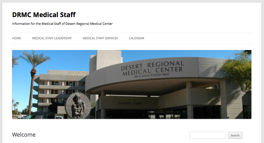
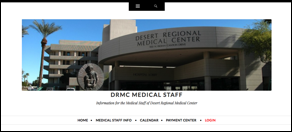
revisions for transition to Ryu theme base

diff --git a/style.css b/style.css
@@ -1,36 +1,46 @@
 /*
 Theme Name:       DRMCMedStaff
 Theme URI:        http://drmcmedstaff.org
-Description:      Child Theme for twentytwelve. 
+Description:      Child Theme for Ryu. 
 Author:           afragen
 Author URI:       http://drmcmedstaff.org
-Template:         twentytwelve
-Version:          1.3.22
+Template:         ryu
+Version:          1.4.0
 Github Theme URI: https://github.com/afragen/drmcmedstaff
 GitHub Branch:    develop
 */
  
-@import url("../twentytwelve/style.css");
+@import url("../ryu/style.css");
+
+.des-insert { color: #0000ff; text-decoration: underline; }
+.des-delete { color: #d80000; text-decoration: line-through; }
 
 /* MEC images, cropped then scaled to 2x3 inches */
-#content td>img { max-width: 100px; float: right; }
+#content td>img { max-width: 100px; }
 #content table, #content td { border: none; }
 #content th { font-size: 1em; }
 
-/* Spacing in Med Staff Leadership table */
-#content table>tbody>tr>td, #content table>tbody>tr>td>img {
+/* Spacing for names in Med Staff Leadership table */
+tbody tr>td, tbody tr>td>img {
 	vertical-align: middle;
-	font-size: 0.8em;
+	font-size: 0.6em;
 }
 
 /* Spacing for Document listing */
 #content li { padding: 0.4em; }
-#content ul { width:400px; margin-right:auto; margin-left:auto; }
+#content ul { width: 600px; margin-right:  auto; margin-left:auto; list-style: none; }
 
 .bns-login { padding-bottom: 1em; }
 
-/* Comment Styling */
+/* Changes for Ryu theme */
+h1.entry-title { font-size: 1.5em; }
+.toppanel { background-color: #666; }
+.entry-content th { border: none; }
+
+/* Comment Styling for TwentyTwelve */
+/*
 h2.comments-title { margin: 0; }
 section.comment-content { margin-left: 2em; }
 .comments-area article header { margin-bottom: 20px; overflow: visible; }
 #respond { margin:0 }
+*/

diff --git a/tribe-events/tribe-events.css b/tribe-events/tribe-events.css
@@ -1,11 +1,5 @@
 /* The Events Calendar */
 
-/* 
-.tribe-events-calendar-buttons a { margin: 50px 0 0 10px; }
-.tribe-events-month-nav { margin-top: 20px; padding-top: 10px;}
-table.tribe-events-calendar { margin-top: 3em !important; }
-#tribe-events-calendar-header {  }
- */
 
 li.tribe-events-adv-list-widget ol li {
   font-size: 0.8em;
@@ -16,3 +10,7 @@ li.tribe-events-adv-list-widget ol li {
 .tribe-events-widget-link { text-align: center; }
 
 table.tribe-events-calendar { background-color: #fff; }
+
+/* Adjustments for Ryu theme */
+h4.entry-title.summary { font-size: 1.25em; }
+.tribe-bar-views-list { font: 15px sans-serif ; }

diff --git a/templates/drmc-dept-elections.php b/templates/drmc-dept-elections.php
@@ -37,8 +37,13 @@ get_header(); ?>
 
 		<div id="primary">
 			<div id="content" role="main">
+
+			<article class="hentry">
+			<div class="entry-class wrap clear">
+			<header class="entry-header">
+				<h1 class="entry-title">Items for voting - <?php echo ucwords( $terms[0] ); ?></h1>
+			</header>
 			<div class="entry-content">
-			<h2>Items for voting - <?php echo ucwords( $terms[0] ); ?></h2>
 			<p>Once cast, <strong>your vote cannot be changed</strong>.</p>
 
 			<p>Changes and such will have the following styling. Additions will be <span class="des-insert">blue and underlined</span>. Deletions will be <span class="des-delete">red and strike-through</span>.</p>
@@ -56,6 +61,9 @@ get_header(); ?>
 		 
 			<?php endwhile; // end of the loop. ?>
 
+
+			</div><!-- .entry-class -->
+			</article>
 
 			</div><!-- #content -->
 		</div><!-- #primary -->

diff --git a/templates/drmc-elections.php b/templates/drmc-elections.php
@@ -35,8 +35,13 @@ get_header(); ?>
 
 		<div id="primary">
 			<div id="content" role="main">
+
+			<article class="hentry">
+			<div class="entry-class wrap clear">
+			<header class="entry-header">
+				<h1 class="entry-title">Items for voting</h1>
+			</header>
 			<div class="entry-content">
-			<h2>Items for voting</h2>
 			<p>Once cast, <strong>your vote cannot be changed</strong>.</p>
 
 			<p>Changes and such will have the following styling. Additions will be <span class="des-insert">blue and underlined</span>. Deletions will be <span class="des-delete">red and strike-through</span>.</p>
@@ -54,7 +59,9 @@ get_header(); ?>
 
 			<?php endwhile; // end of the loop. ?>
 
+			</div><!-- .entry-class -->
 
+			</article>
 			</div><!-- #content -->
 		</div><!-- #primary -->
 

diff --git a/README.md b/README.md
@@ -1,7 +1,7 @@
 DRMCMedStaff.org Child Theme
 ============================
 
-Child theme for drmcmedstaff.org based on TwentyTwelve.
+Child theme for drmcmedstaff.org based on Ryu theme.
 
 Custom list-files.php to list documents in a specified directory.
 
